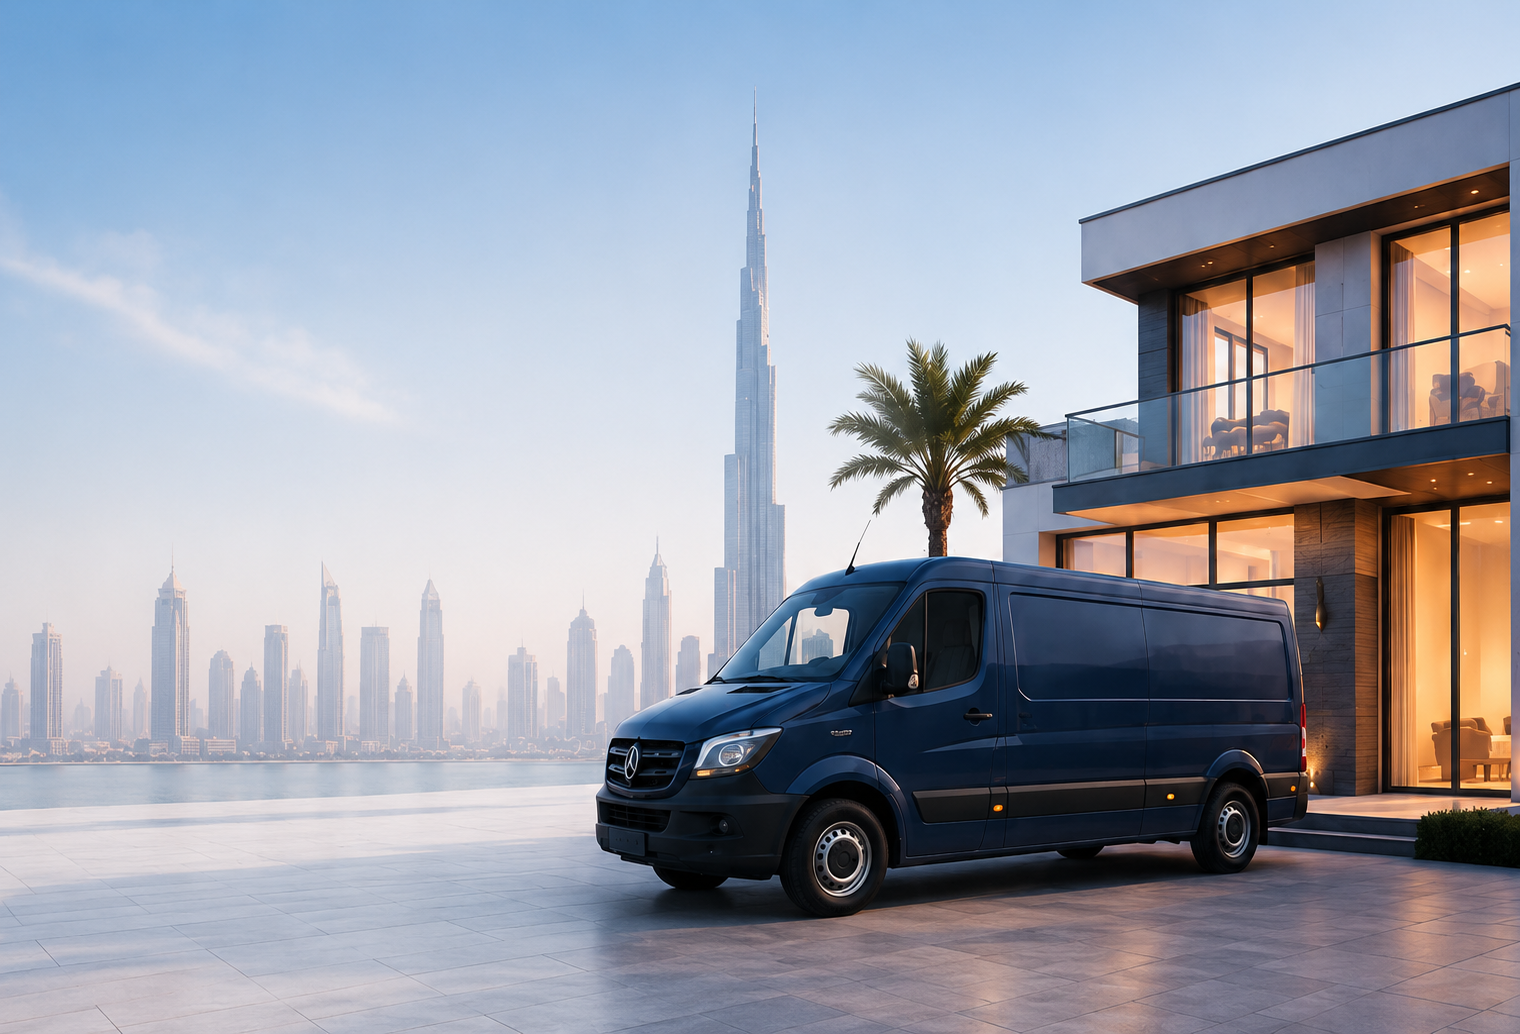
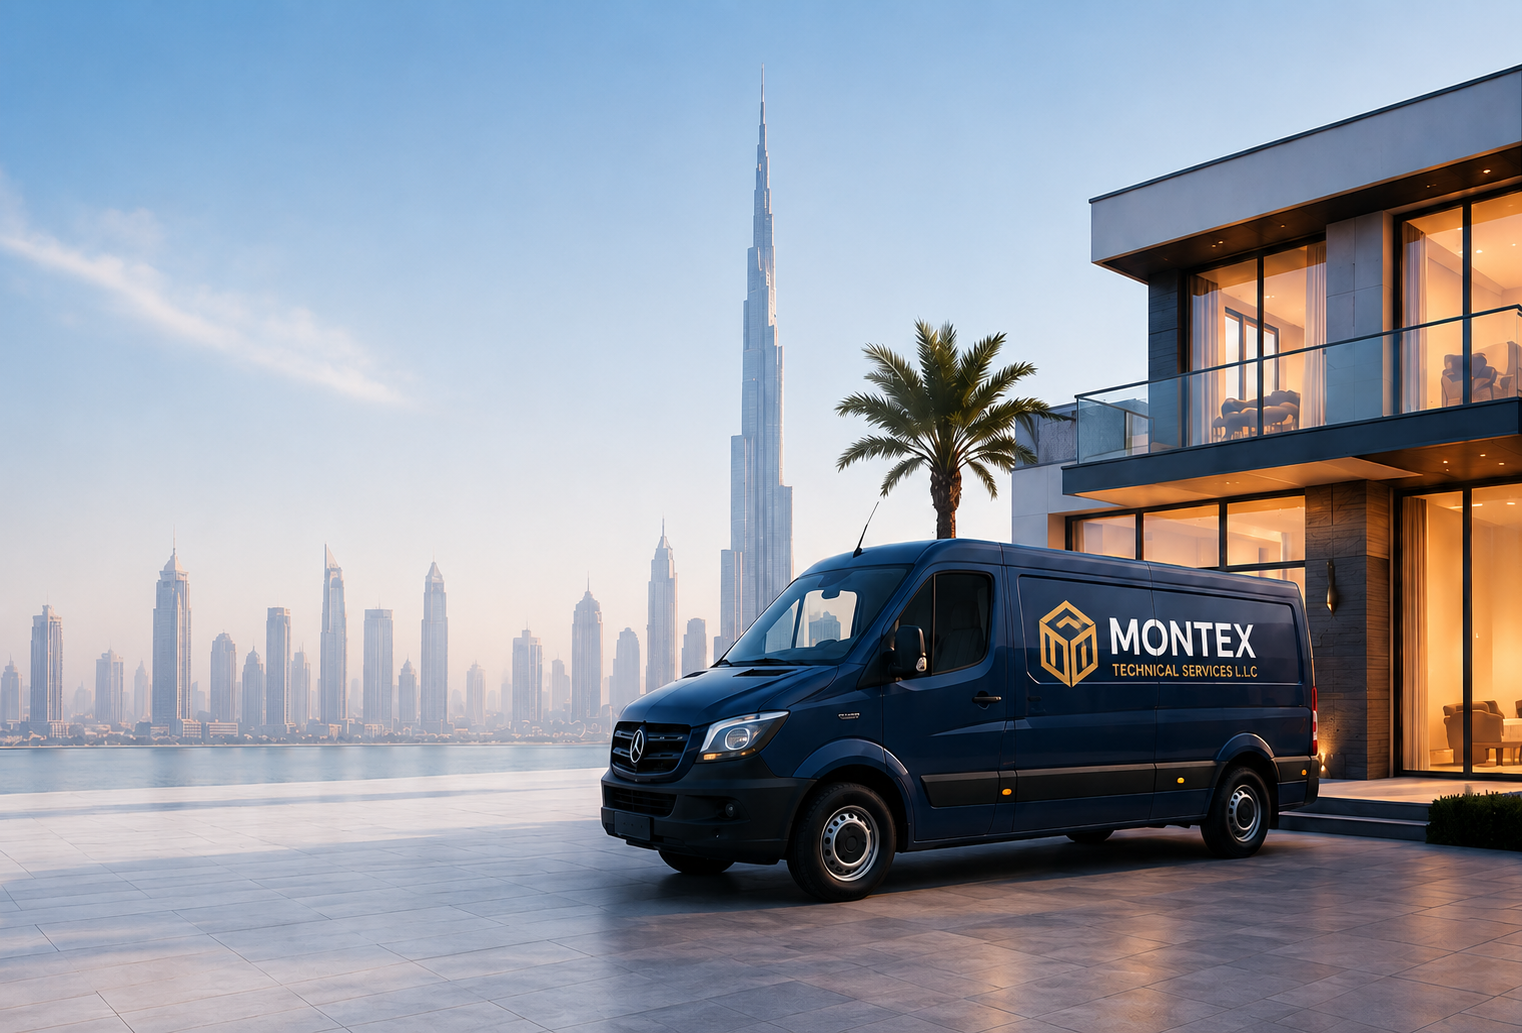
upgraded to dynamic website and some features added

diff --git a/app/components/Hero.jsx b/app/components/Hero.jsx
@@ -68,18 +68,18 @@ export default function Hero({ services }) {
             </div>
           </div>
         </div>
-
-        <div className={styles.floatingActions} aria-label="Quick contact">
-          <a className={styles.whatsapp} href="https://wa.me/[phone redacted]" aria-label="Chat with Montex on WhatsApp">
-            <Icon name="chat" />
-            <span>WhatsApp</span>
-          </a>
-          <a className={styles.call} href="tel:[phone redacted]" aria-label="Call Montex Technical Services">
-            <Icon name="phone" />
-            <span>Call Us</span>
-          </a>
-        </div>
       </section>
+
+      <div className={styles.floatingActions} aria-label="Quick contact">
+        <a className={styles.whatsapp} href="https://wa.me/[phone redacted]" aria-label="Chat with Montex on WhatsApp">
+          <Icon name="chat" />
+          <span>WhatsApp</span>
+        </a>
+        <a className={styles.call} href="tel:[phone redacted]" aria-label="Call Montex Technical Services">
+          <Icon name="phone" />
+          <span>Call Us</span>
+        </a>
+      </div>
 
       <section className={styles.serviceFloat} id="services" aria-label="Main services">
         <div className={`container ${styles.serviceGrid}`}>

diff --git a/app/page.jsx b/app/page.jsx
@@ -20,9 +20,9 @@ const qualityPoints = [
 ];
 
 const stats = [
-  ["users", "500+", "Happy Clients"],
-  ["building", "1000+", "Projects Completed"],
-  ["worker", "50+", "Skilled Professionals"],
+  ["users", "200+", "Happy Clients"],
+  ["building", "220+", "Projects Completed"],
+  ["worker", "20+", "Skilled Professionals"],
   ["shield", "100%", "Satisfaction Guarantee"]
 ];
 
@@ -69,7 +69,7 @@ export default function Home() {
               </div>
               <div className="experience">
                 <Icon name="shield" />
-                <strong>15+</strong>
+                <strong>5+</strong>
                 <span>Years of Experience</span>
               </div>
             </div>
@@ -141,7 +141,7 @@ export default function Home() {
           </div>
         </section>
 
-        <section className="license section" id="certificates">
+        {/* <section className="license section" id="certificates">
           <div className="container licenseGrid">
             <div className="sectionCopy">
               <p className="label"><Icon name="shield" /> Certificates</p>
@@ -155,10 +155,10 @@ export default function Home() {
               </ul>
             </div>
             <a className="licenseProof" href="/assets/trade-license.jpg" aria-label="Open trade license image">
-              <Image src="/assets/trade-license.jpg" alt="Dubai Economy and Tourism license activities document for Montex" width={900} height={1639} />
+              <Image src="/assets/trade-license.jpg" alt="Dubai Economy and Tourism license activities document for Montex" width={900} height={1639} /> 
             </a>
           </div>
-        </section>
+        </section> */}
 
         <section className="contact section" id="contact">
           <div className="container contactGrid">
@@ -168,7 +168,7 @@ export default function Home() {
               <p style={{color:'#e9c260'}}>Send your requirement and our team will respond with the right technical service solution.</p>
               <div className="contactLines">
                 <a href="tel:[phone redacted]">[phone redacted]</a>
-                <a href="mailto:[email redacted]">[email redacted]</a>
+                <a href="mailto:[email redacted]">[email redacted]</a>
                 <span>Dubai, United Arab Emirates</span>
               </div>
             </div>
@@ -194,6 +194,7 @@ export default function Home() {
       <footer className="footer">
         <div className="container footerInner">
           <Image src="/assets/logo.jpg" alt="Montex Technical Services L.L.C" width={180} height={43} />
+          <p><span style={{ color: "#e9c260", fontWeight: "700" ,fontSize:"16px" }}>Address : </span> 101, BMI building, near Sharaf DG Metro Station Bur Dubai.</p>
           <p>© 2026 Montex Technical Services L.L.C. All Rights Reserved.</p>
         </div>
       </footer>

diff --git a/app/components/FloatingContact.jsx b/app/components/FloatingContact.jsx
@@ -1,0 +1,7 @@
+export default function FloatingContact() {
+  return (
+    <div className={styles.floatingActions}>
+      ...
+    </div>
+  );
+}

diff --git a/app/components/Hero.module.css b/app/components/Hero.module.css
@@ -209,11 +209,11 @@
 
 .floatingActions {
   position: fixed;
-  z-index: 40;
   right: 18px;
-  top: 350px;
+  top: clamp(140px, 34vh, 350px);
   display: grid;
   gap: 12px;
+  z-index: 2147483000;
 }
 
 .floatingActions a {

diff --git a/app/components/Header.jsx b/app/components/Header.jsx
@@ -22,7 +22,8 @@ export default function Header() {
           <div className="topbarLeft">
             <span>Dubai, UAE</span>
             <span>Mon - Sat 8:00 AM - 6:00 PM</span>
-            <a href="[email redacted]">[email redacted]</a>
+            <span>[phone redacted]</span>
+            <a href="[email redacted]">[email redacted]</a>
           </div>
           <div className="topbarRight">
             <span>Follow Us:</span>

diff --git a/app/globals.css b/app/globals.css
@@ -589,6 +589,7 @@ img {
   font-size: 14px;
 }
 
+
 @media (max-width: 1060px) {
   .navLinks {
     gap: 20px;